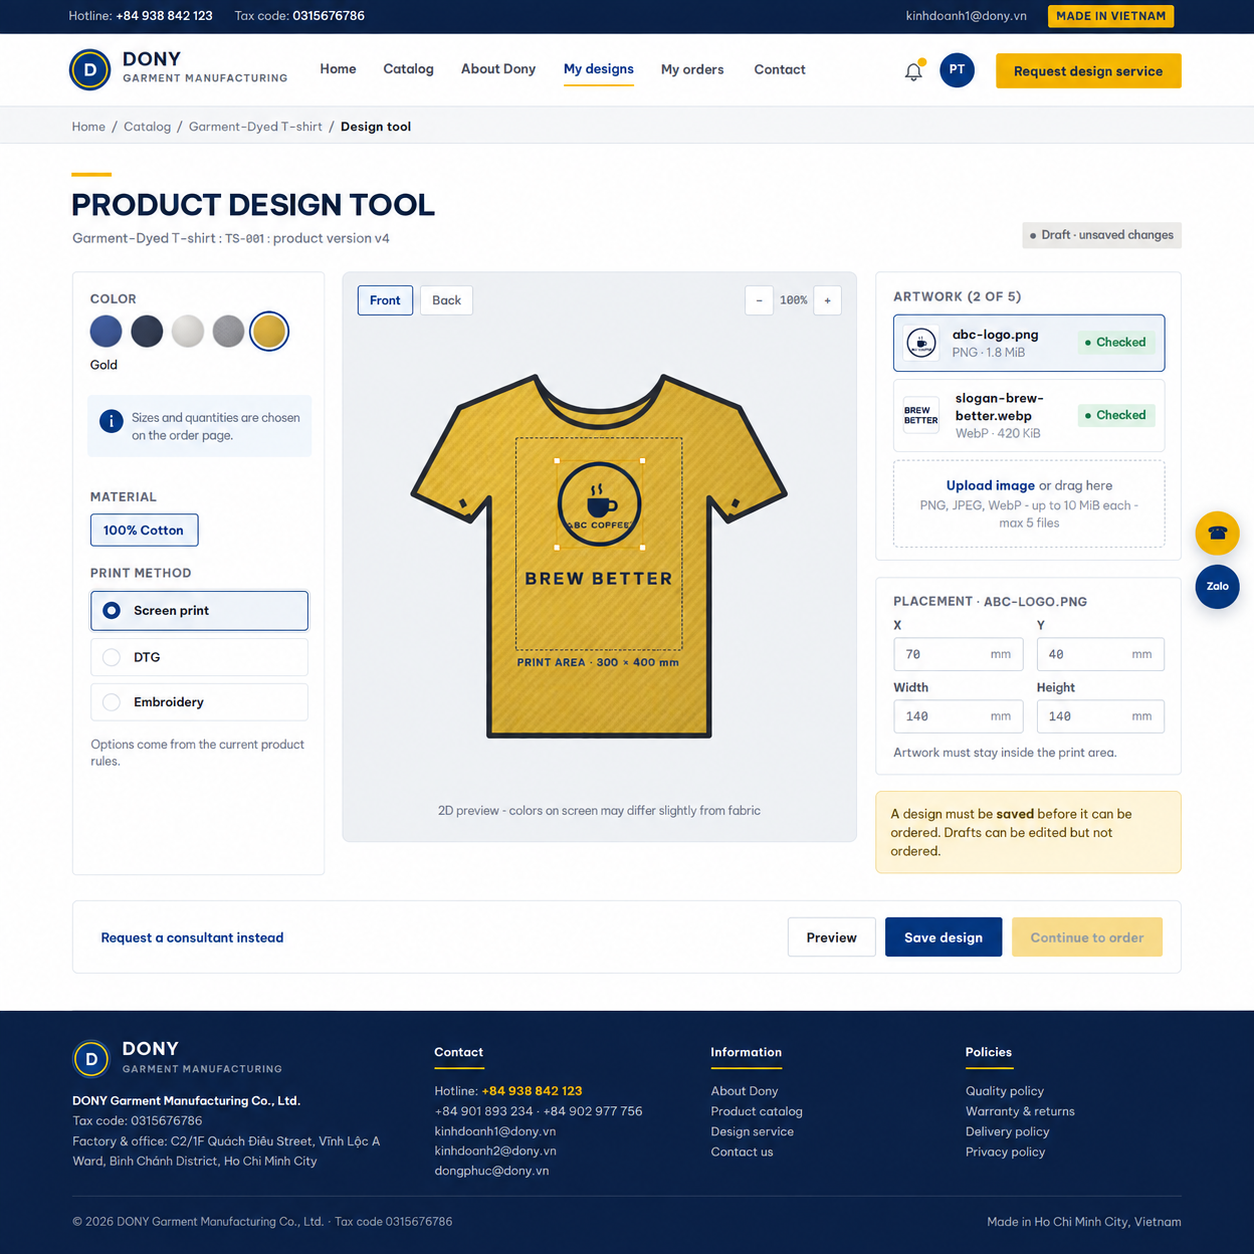
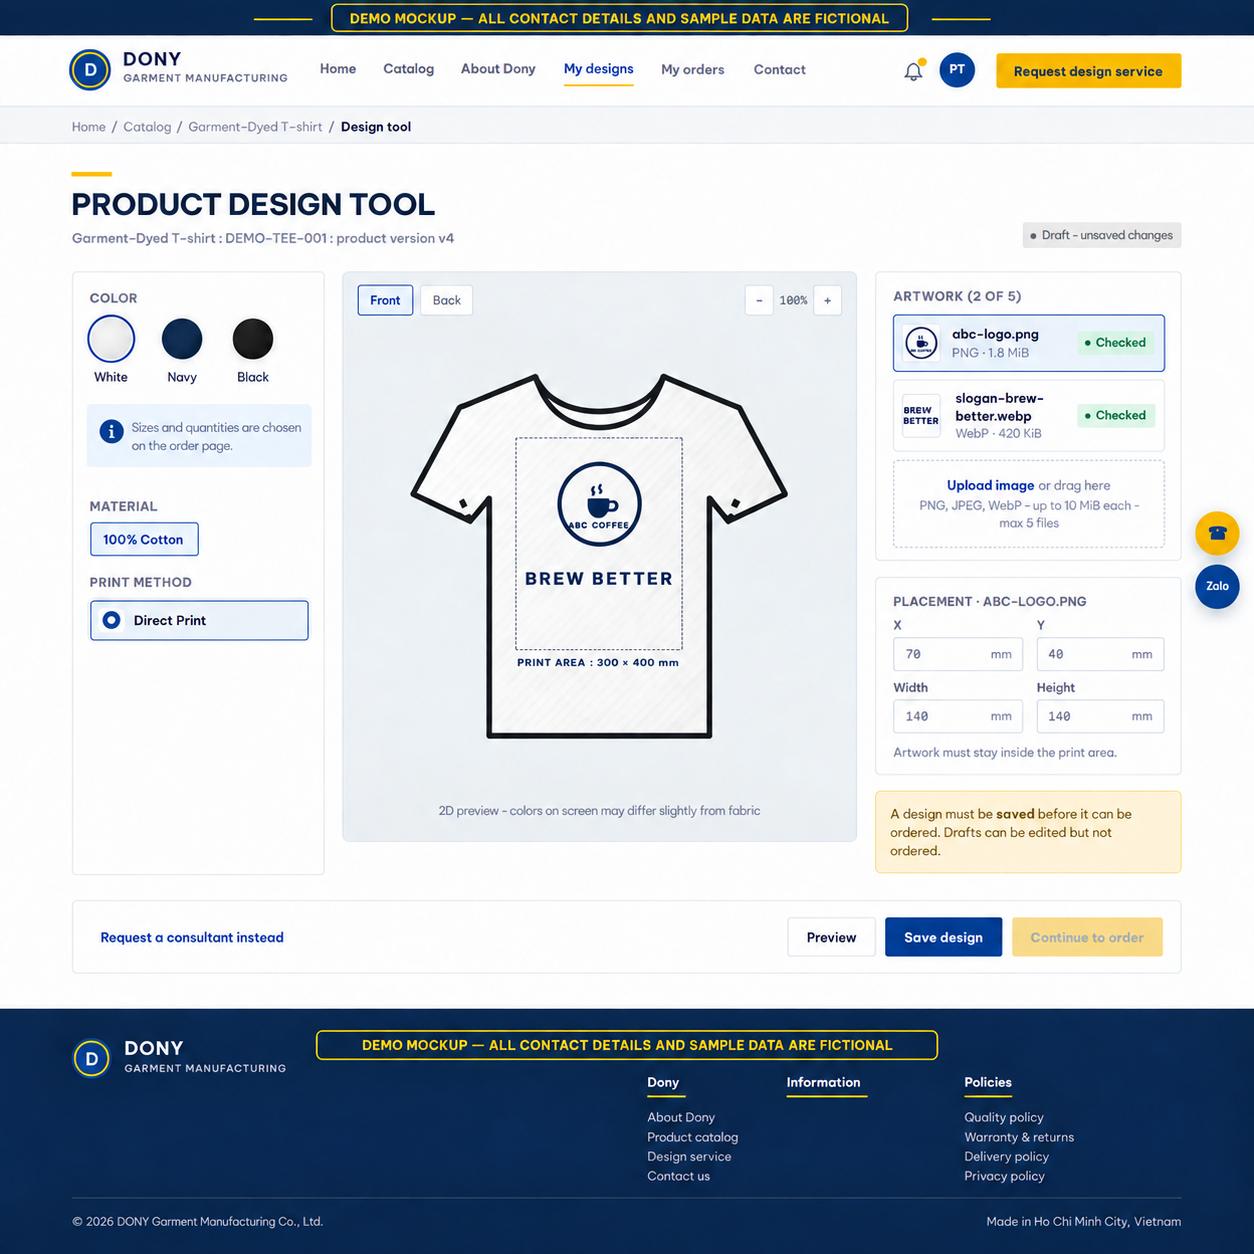
merge new specs 8

diff --git a/screens/S27-customer_order_detail_screen.md b/screens/S27-customer_order_detail_screen.md
@@ -91,9 +91,9 @@ Portal: Customer owner. Route: /orders/{order_id}. Back preserves the originatin
 
 | FR ID (from the module spec) | What this screen does for it |
 |---|---|
-| MFG-07/F-ORD-002 | **Assign Sales** — Show customer and optional buyer-organization contact data, request/order summaries and current assignment. |
-| MFG-07/F-ORD-003 | **Assign Consultant** — Assign/reassign an active Dony Sales employee with version checks, idempotency and atomic paired assignment of affected approved/assigned design requests; `committed_due_at` is Dony's commitment, not the customer's requested deadline. |
-| MFG-07/F-ORD-004 | **Assign Consultant** — Notify the newly assigned consultant with authorized customer context after commit; reassignment also notifies affected staff and customer; deduplicate and retry delivery. |
+| MFG-07/F-ORD-002 | **Order Detail View** — Show only the authenticated customer’s authorized order snapshot, lifecycle timeline, contract/payment/refund summaries and shipment tracking; never recalculate historical prices. |
+| MFG-07/F-ORD-003 | **Cancel eligible order and request refund** — Allow cancellation only in permitted pre-production states, require a reason and idempotency/version checks, and request a policy-based refund without allowing the client to set its amount. |
+| MFG-07/F-ORD-004 | **Cancel Notify Logic** — Notify the customer and Dony Sales Admin after committed cancellation; deduplicate events and include refund status when relevant. |
 
 
 ## 8. Responsive and accessibility notes

diff --git a/screens/S29-order_detail_admin_screen.md b/screens/S29-order_detail_admin_screen.md
@@ -85,9 +85,8 @@ Portal: Sales Admin / Assigned Sales. Route: /admin/orders/{order_id}. Back pres
 
 | FR ID (from the module spec) | What this screen does for it |
 |---|---|
-| MFG-07/F-ORD-005 | **View Assignment** — List only the consultant's active assigned Dony customer records with pagination and allowlisted filters. |
-| MFG-07/F-ORD-006 | **View Assignment** — Return authorized Customer and optional Buyer Organization context plus chronological interaction history without exposing unassigned records or internal CRM notes. |
-| MFG-07/F-ORD-007 | **Update Consult** — Show consultation status, notes and linked record summaries to assigned consultant or Sales Admin. |
+| MFG-07/F-ORD-006 | **Status Update Logic** — Enforce event-owned order transitions with expected-version/idempotency checks and required shipment/delivery evidence; only authorized actors can advance their permitted transitions. |
+| MFG-07/F-ORD-007 | **Status Notify Logic** — Notify the order owner after a committed status change with timestamp and safe tracking link; suppress duplicates. |
 | MFG-06/F-PAY-003 | Implements versioned physical-sample preparation/dispatch and preserves Customer approval gates. |
 | MFG-09/F-CONTR-001 | Opens contract generation only after the current physical sample is Approved. |
 Additional linked modules: [MFG-06](../specs/spec-MFG-06.md), [MFG-09](../specs/spec-MFG-09.md).

diff --git a/screens/S44-staff_login_screen.md b/screens/S44-staff_login_screen.md
@@ -40,12 +40,12 @@ MVP supports staff sign-in only for pre-provisioned identities; invitation accep
 | State | What the user sees | Trigger |
 |---|---|---|
 | Loading | Progress and disabled submit | Authentication begins |
-| Empty |  | Initial route |
+| Empty | This is an authentication form, not a data-list screen; render the email/password form rather than an empty-record message. | Initial route |
 | Forbidden/not found | Safe access message | Invalid invitation or unauthorized route |
 | Error | Generic credential error with request ID | Failed request |
 | Retry | Sign-in remains available within rate limits | Recoverable failure |
-| Success |  | Active StaffAccount authenticated |
-| Conflict |  | 409 |
+| Success | Establish the secure employee session and route Sales Admin to S28. Seeded Sales and System Admin test accounts route to S01 and have no staff-only MVP functions. | Active StaffAccount authenticated |
+| Conflict | Show a safe session/version conflict, clear stale employee session state, and require sign-in again; do not create a second session from a stale challenge. | Stale or concurrently consumed authentication state |
 
 ## 5. Interactions and navigation
 

diff --git a/screens/S46-staff_reset_password_screen.md b/screens/S46-staff_reset_password_screen.md
@@ -36,12 +36,12 @@
 | State | What the user sees | Trigger |
 |---|---|---|
 | Loading | Progress and disabled submit | Reset begins |
-| Empty |  | Valid token route opens |
+| Empty | With a valid employee reset token, render new-password and confirmation fields; do not show a blank state. | Valid token route opens |
 | Forbidden/not found | Safe invalid or expired-link notice | Wrong portal, expired or unknown token |
 | Error | Field-safe message with request ID | Validation/dependency failure |
 | Retry | Form remains available if token is valid | Recoverable failure |
-| Success |  | Commit succeeds |
-| Conflict |  | Concurrent or repeated use |
+| Success | Consume the employee token once, save the new password, revoke existing sessions, and return to S44 employee sign-in. | Password update commits |
+| Conflict | Keep credentials unchanged, mark the token unusable after concurrent/repeated consumption, and direct the employee to request a fresh reset link. | Concurrent or repeated token use |
 
 ## 5. Interactions and navigation
 

diff --git a/screens/S45-staff_forgot_password_screen.md b/screens/S45-staff_forgot_password_screen.md
@@ -36,12 +36,12 @@
 | State | What the user sees | Trigger |
 |---|---|---|
 | Loading | Progress; submit disabled | Request starts |
-| Empty |  | Initial route |
+| Empty | Render the work-email recovery form; no account data is shown before submission. | Initial route |
 | Forbidden/not found | Safe route message | Invalid route or token context |
 | Error | Generic safe error with request ID | Dependency failure |
 | Retry | Retry allowed within rate limits | Recoverable error |
-| Success |  | Request accepted |
-| Conflict |  | Stale or replaced request |
+| Success | Show the same neutral acknowledgement whether the address exists; queue a time-limited employee reset link only for an eligible account. | Request accepted |
+| Conflict | Explain that the recovery token/request is stale or already replaced and offer a safe way to request a new link; do not reveal account existence. | Stale or replaced request |
 
 ## 5. Interactions and navigation
 

diff --git a/screens/S28-order_list_admin_screen.md b/screens/S28-order_list_admin_screen.md
@@ -77,9 +77,7 @@ Portal: Sales Admin / Assigned Sales. Route: /admin/orders. Back preserves the o
 
 | FR ID (from the module spec) | What this screen does for it |
 |---|---|
-| MFG-07/F-ORD-005 | **View Assignment** — List only the consultant's active assigned Dony customer records with pagination and allowlisted filters. |
-| MFG-07/F-ORD-006 | **View Assignment** — Return authorized Customer and optional Buyer Organization context plus chronological interaction history without exposing unassigned records or internal CRM notes. |
-| MFG-07/F-ORD-007 | **Update Consult** — Show consultation status, notes and linked record summaries to assigned consultant or Sales Admin. |
+| MFG-07/F-ORD-005 | **Admin Order Dashboard** — Provide Sales Admin with a paginated Dony-wide order queue, status/date/customer filters and counts. |
 
 
 ## 8. Responsive and accessibility notes

diff --git a/screens/S37-payment_transaction_detail_screen.md b/screens/S37-payment_transaction_detail_screen.md
@@ -77,8 +77,7 @@ Portal: Sales Admin. Route: /admin/payments/{payment_id}. Back preserves the ori
 | FR ID (from the module spec) | What this screen does for it |
 |---|---|
 | MFG-06/F-PAY-005 | **Make Payment** — Verify and deduplicate provider notifications by order and purpose; accept settlement once, perform the purpose-specific order transition, and support authorized reconciliation/refunds without resurrecting cancelled orders. |
-| MFG-07/F-ORD-003 | **Assign Consultant** — Assign/reassign an active Dony Sales employee with version checks, idempotency and atomic paired assignment of affected approved/assigned design requests; `committed_due_at` is Dony's commitment, not the customer's requested deadline. |
-Additional linked modules: [MFG-07](../specs/spec-MFG-07.md).
+Additional linked modules: [MFG-06](../specs/spec-MFG-06.md).
 
 
 

diff --git a/screens/S13-product_design_tool_screen.md b/screens/S13-product_design_tool_screen.md
@@ -19,9 +19,9 @@
 
 ## 2. Mockup
 
-![S13 existing workflow reference](img/S13-product_design_tool_screen.png)
+![S13 updated design tool mockup](img/S13-product_design_tool_screen.png)
 
-The image documents the existing intended editor controls (front/back canvas, product options, artwork list, placement dimensions, draft state, preview and save). Written rules below govern validation and versioning; image/sample values do not override product rules.
+The image is an updated illustrative mockup. Any sample artwork and sample data are fictional; the product shown is labelled with the seeded `DEMO-TEE-001` code and its depicted color/print options match the MVP seed. Written rules below govern validation and versioning.
 
 ## 3. Element inventory
 

diff --git a/screens/S22-create_order_screen.md b/screens/S22-create_order_screen.md
@@ -19,9 +19,9 @@
 
 ## 2. Mockup
 
-![S22 historical reference](img/S22-create_order_screen.png)
+![S22 updated create-order mockup](img/S22-create_order_screen.png)
 
-Written behavior below takes precedence over obsolete sample content. MVP does not show the historical merge action or merge controls; merge becomes available only after MFG-10 activation.
+This updated illustrative mockup includes the required delivery fields and business details. The banner labels its sample data and all contact details as fictional. MVP does not show merge controls; merge becomes available only after MFG-10 activation. Written validation and server-calculated quote rules below remain authoritative.
 
 ## 3. Element inventory
 

diff --git a/screens/S26-customer_order_list_screen.md b/screens/S26-customer_order_list_screen.md
@@ -74,7 +74,7 @@ Portal: Customer owner. Route: /orders. Back preserves the originating route and
 
 | FR ID (from the module spec) | What this screen does for it |
 |---|---|
-| MFG-07/F-ORD-001 | **Assign Sales** — List Dony customers without an active Sales assignment, with relevant request/order summaries and pagination. |
+| MFG-07/F-ORD-001 | **Order List View** — List the authenticated customer’s own orders with newest-first pagination and allowlisted status/date filters; an empty result is valid. |
 
 
 ## 8. Responsive and accessibility notes
